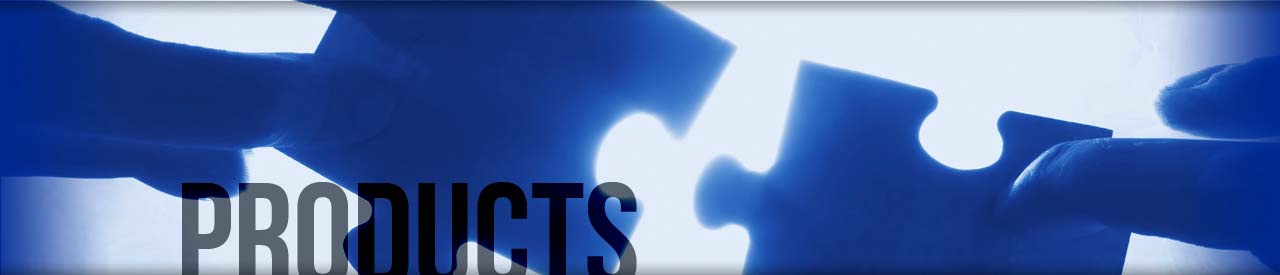
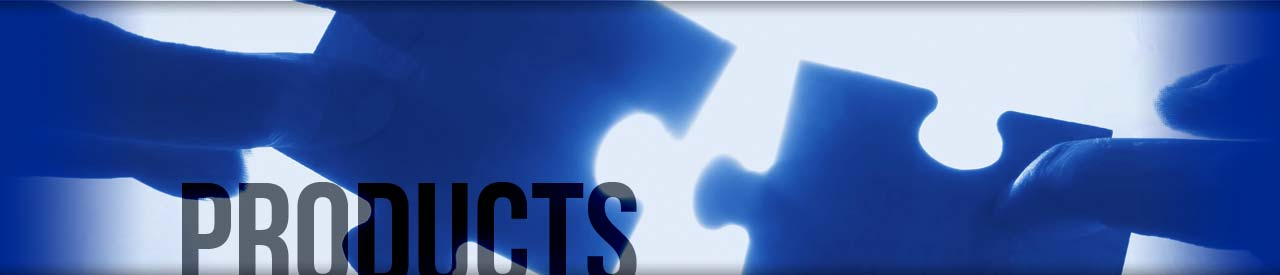
Fixed services graphics

diff --git a/app/assets/stylesheets/header.css.scss b/app/assets/stylesheets/header.css.scss
@@ -141,6 +141,11 @@ header {
 	background-color: black;
 }
 
+#strip-services-sides{
+	background-image: url(header_products_sides.png);
+}
+
+
 #strip-portfolio-center{
 	background-color: #75a557;
 	background-image: url(header_portfolio.jpg);
@@ -159,4 +164,9 @@ header {
 #strip-contact-center{
 	background-color: black;
 	background-image: url(header_contact.jpg);
+}
+
+#strip-services-center{
+	background-color: black;
+	background-image: url(header_products.jpg);
 }

diff --git a/app/controllers/services_controller.rb b/app/controllers/services_controller.rb
@@ -1,8 +1,8 @@
 class ServicesController < ApplicationController
-	manageable_content_for :webdevelopment, :concept_development, :mobile, :layout => "portfolio_layout"
+	manageable_content_for :webdevelopment, :concept_development, :mobile, :layout => "services_layout"
 
-  def index
-  end
+	def index
+	end
 
 	def webdevelopment
 	end
